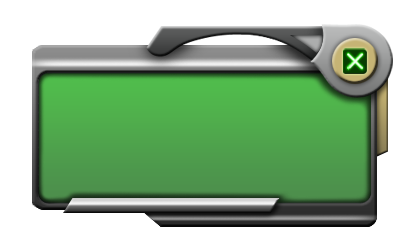
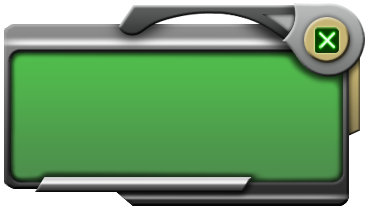
[FIX] Signal box mise en full responsive

diff --git a/www/js/tool.js b/www/js/tool.js
@@ -431,12 +431,30 @@ function getElement(ID, Class, type) {
 						 * Il permet le callback sur la fermeture de celle-ci
 						 */
 					case 'signal':
-						var elem = '<div id="' + ID + '"><div class="closeSignal" ontouchend="closeSignal()"></div><div class="text"></div></div>';
+						var elem = '<div id="' + ID + '"><img class="background" src="img/boite_dialogue.png"/><div class="closeSignal" ontouchend="closeSignal()"></div><div class="text"></div></div>';
 						$('body').append(elem);
-//						if (globalVars['typeScreen'] = 'l') {
-//
-//							$('#' + ID)
-//						}
+						$('#signal .background').load(function(){
+							$('#signal .background').css({
+								'width':globalVars['screenW']/2,
+								'height':'auto',
+								'position':'absolute',
+								'top':'25%',
+								'left':'50%',
+								'margin-left':globalVars['screenW']/-4,
+							});
+							$('#signal .text').css({
+								'top':($('#signal .background').offset().top+(globalVars['screenW']/2)*0.18)+'px',
+								'left':($('#signal .background').offset().left+(globalVars['screenW']/2)*0.05)+'px',
+								'width':globalVars['screenW']/2*0.83+'px',
+								'height':$('#signal .background').height()*0.5+'px',
+							});
+							$('#signal .closeSignal').css({
+								'top':$('#signal .background').offset().top+'px',
+								'left':($('#signal .background').offset().left+$('#signal .background').width()-$('#signal .background').width()*0.2)+'px',
+								'width':$('#signal .background').width()*0.2+'px',
+								'height':$('#signal .background').width()*0.2+'px',
+							});
+						});
 						return $('#' + ID);
 						break;
 						/*

diff --git a/www/index2.html b/www/index2.html
@@ -25,8 +25,8 @@
         <script type="text/javascript">
             //app.initialize();
             $(window).load(function() {
-                globalVars['screenW'] = 1800;
-                globalVars['screenH'] = 1400;
+                globalVars['screenW'] = 800;
+                globalVars['screenH'] = 400;
                 $('body').css({'position':'absolute', 'top':'0px', 'left':'0px', 'width': globalVars['screenW'], 'height': globalVars['screenH'], 'font-size':globalVars['screenH']*0.04});
                 globalVars['config'] = new Object();
                 globalVars['config'].login = 'aaa';
@@ -35,6 +35,7 @@
 				device = {'platform':'web'};
 				getElement('fondmenup').show();
 				getElement('intercom');
+				signal('tt');
 				//sceenParams();
 				//didacticiel();
 				

diff --git a/www/css/index.css b/www/css/index.css
@@ -72,29 +72,22 @@ body {
 	font-size: 0.7em;
 }
 #signal{
-    width: 300px;
-    height: 90px;
-    padding: 70px 43px 40px 23px;
-    background: url('../img/boite_dialogue.png') no-repeat center center;
-    position: absolute;
-    top: 50%;
-    left: 50%;
-    margin-top: -105px;
-    margin-left: -184px;
-    color: #ffffff;
-    text-shadow: 0px 0px 12px #fff;
+    width: 100%;
+    height: 100%;
+	position: absolute;
+	top:0px;
+	left:0px;
     z-index: 1000;
 }
+#signal .background{
+}
 #signal .text{
+    position: absolute;
     overflow: auto;
-    height: 90px;
+	font-size:1.5em;
 }
 .closeSignal{
     position: absolute;
-    right: 10px;
-    top: 10px;
-    width: 50px;
-    height: 50px;
     z-index: 1001;
 }
 #blurall{

diff --git a/www/js/init.js b/www/js/init.js
@@ -49,7 +49,11 @@ var app = {
 			window.innerWidth = globalVars['screenW'] = globalVars['screenW'] - 100;
 		}
 
-		window.devicePixelRatio = 2;
+		window.devicePixelRatio = 1;
+			globalVars['typeScreen'] = 's';
+		if(globalVars['screenW']>1200){
+			globalVars['typeScreen'] = 'l';
+		}
 
 		$('body').css({'width': globalVars['screenW'], 'height': globalVars['screenH'], 'font-size':globalVars['screenH']*0.04});
 		if (device.platform === "Android") {
